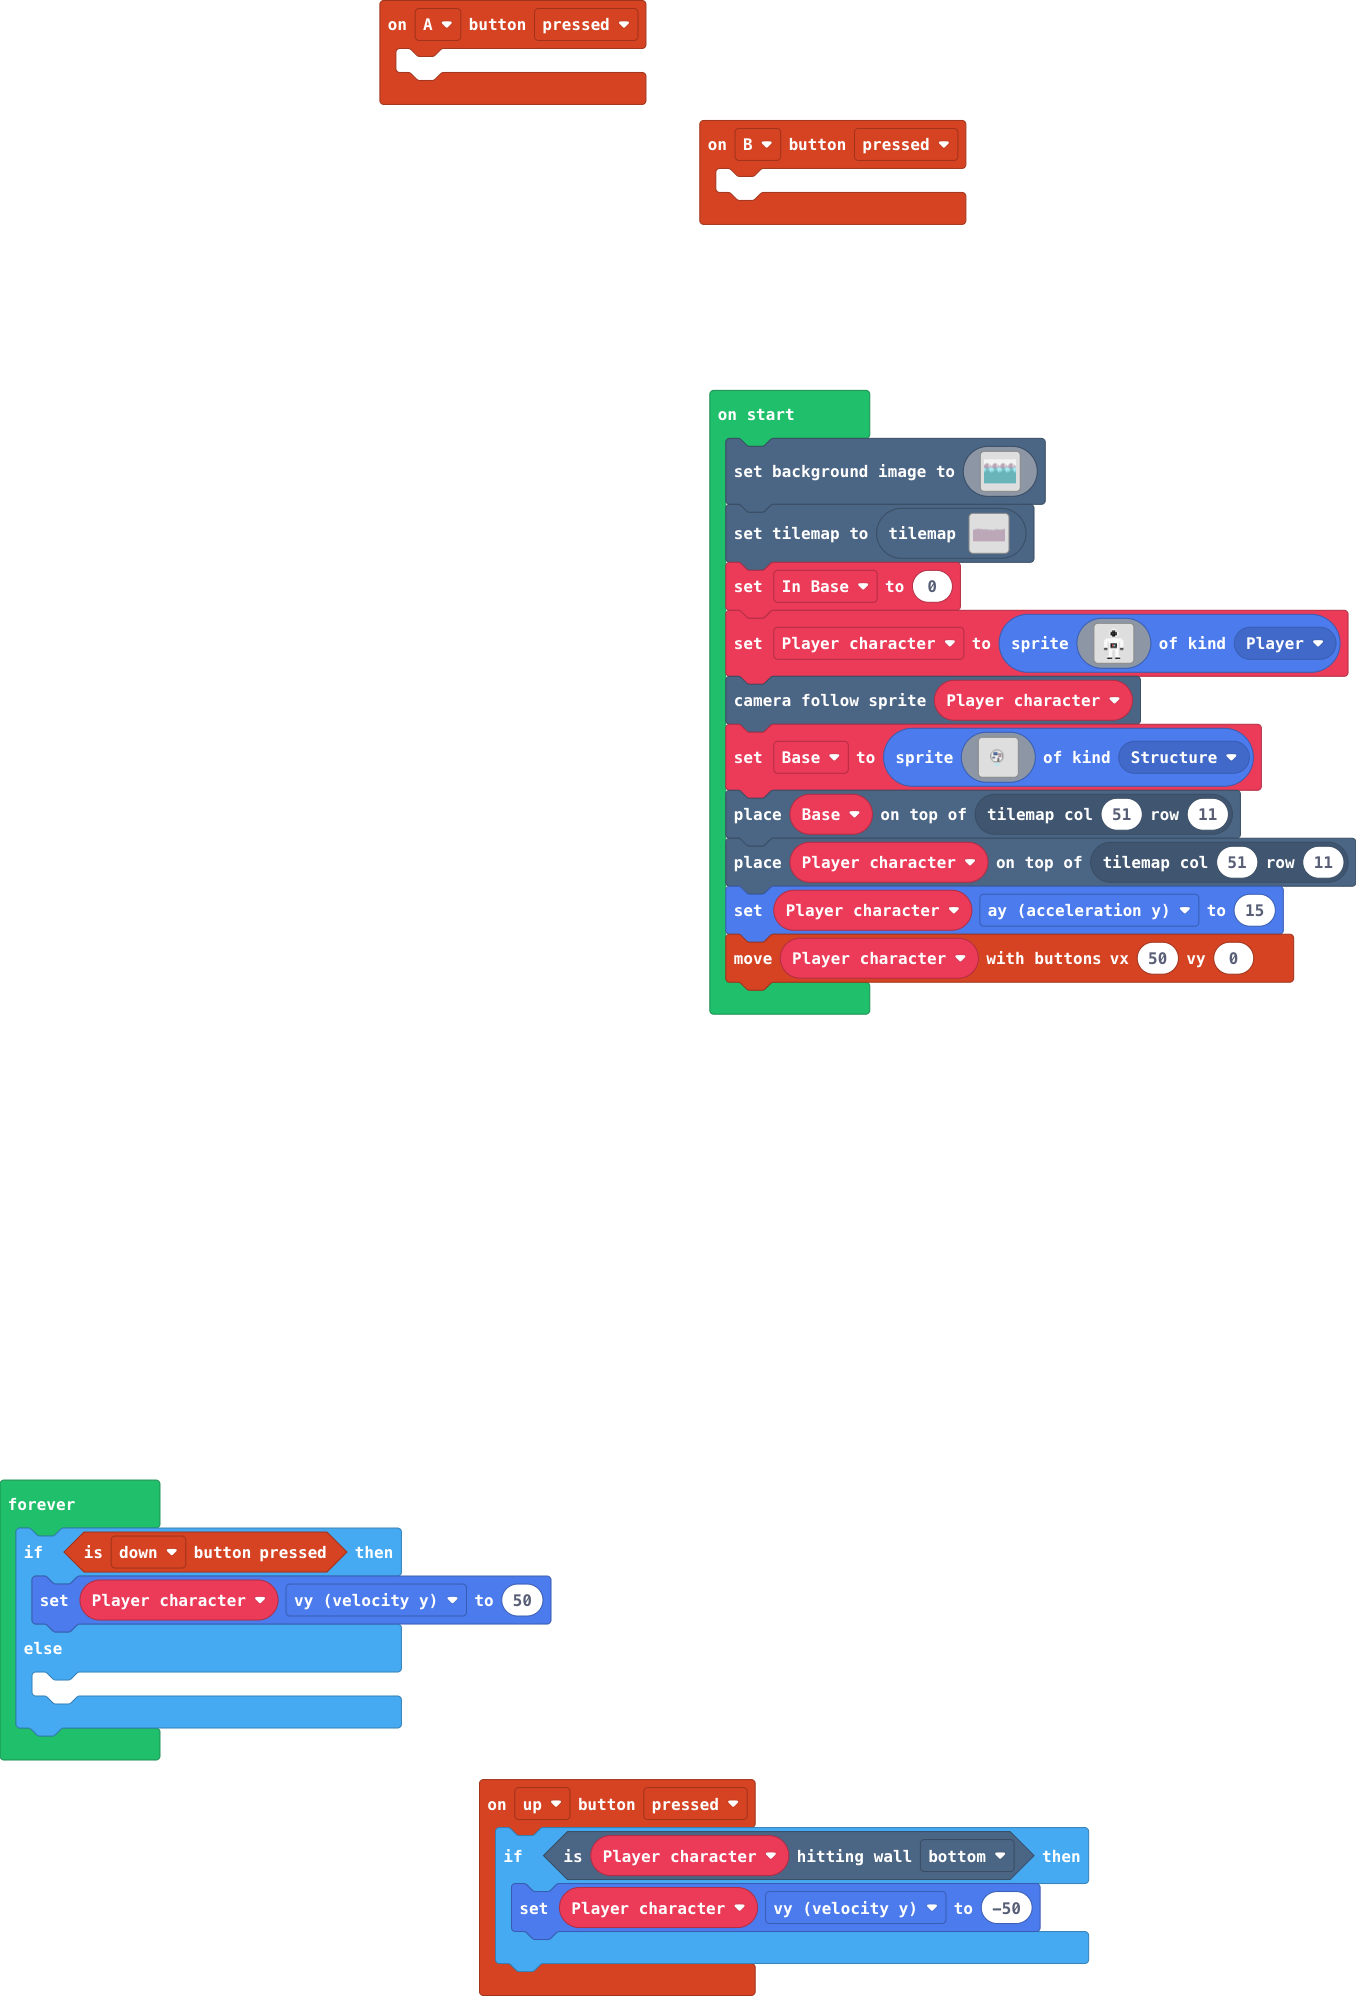
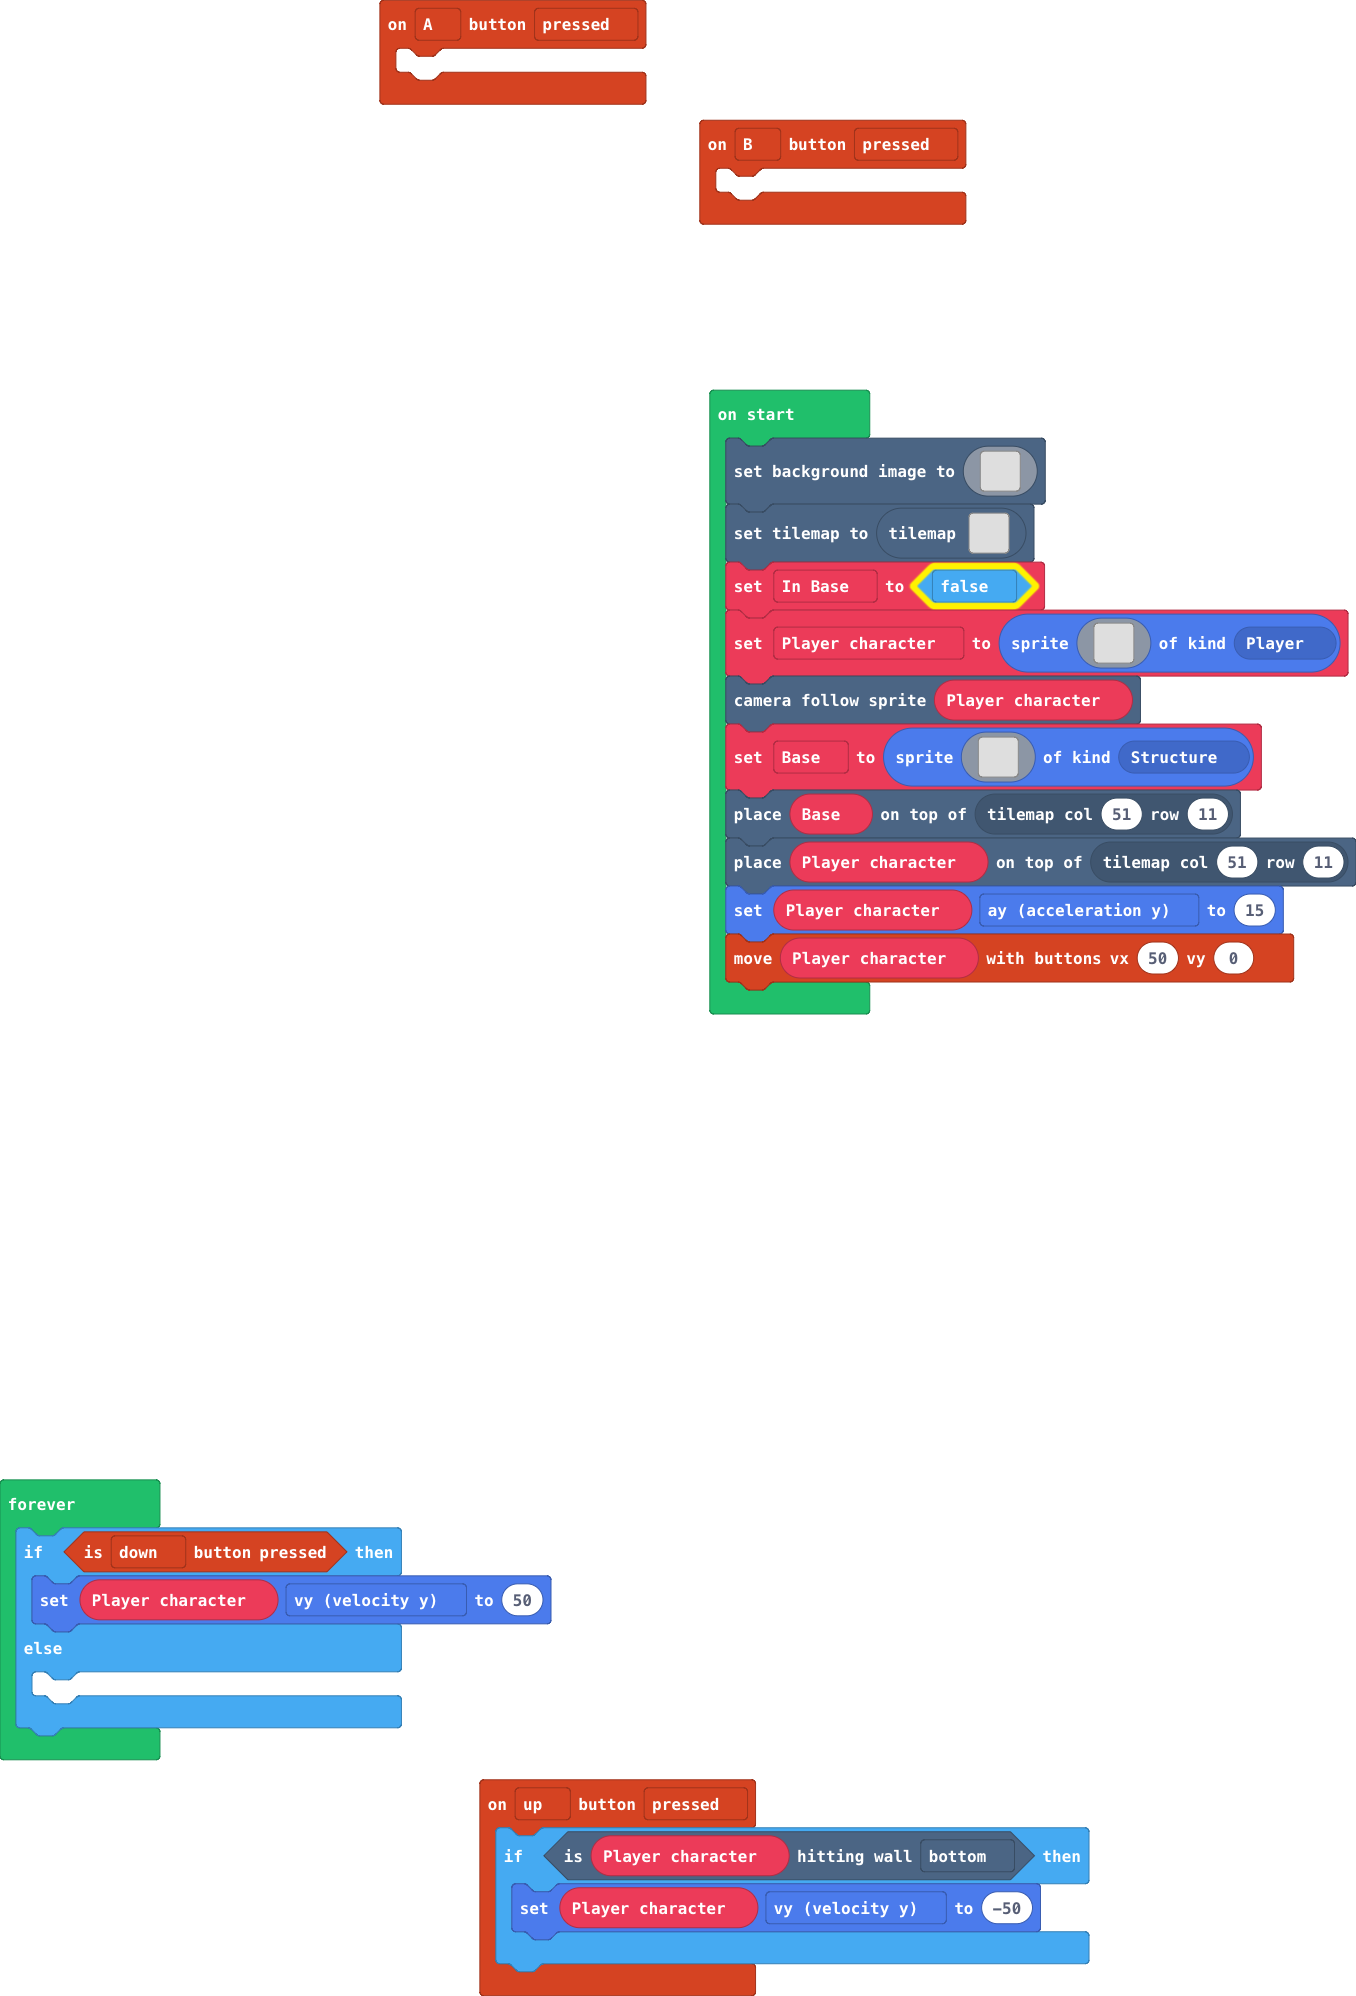
Update main.blocks, main.ts

diff --git a/main.ts b/main.ts
@@ -136,7 +136,7 @@ scene.setBackgroundImage(img`
     6666666666666666666666666666666666666666666666666666666666666666666666666666666666666666666666666666666666666666666666666666666666666666666666666666666666666666
     `)
 tiles.setCurrentTilemap(tilemap`Planet part 1`)
-let In_Base = 0
+let In_Base = false
 Player_character = sprites.create(img`
     ................
     .......11.......
